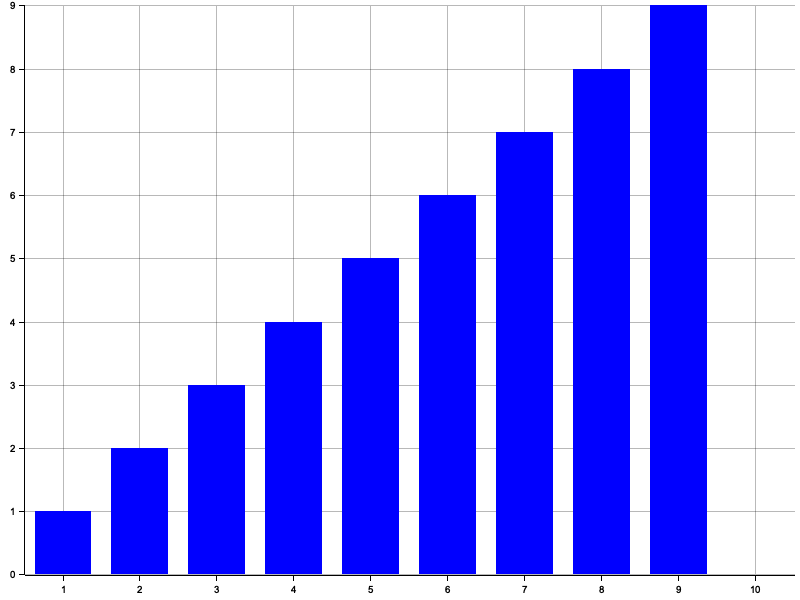
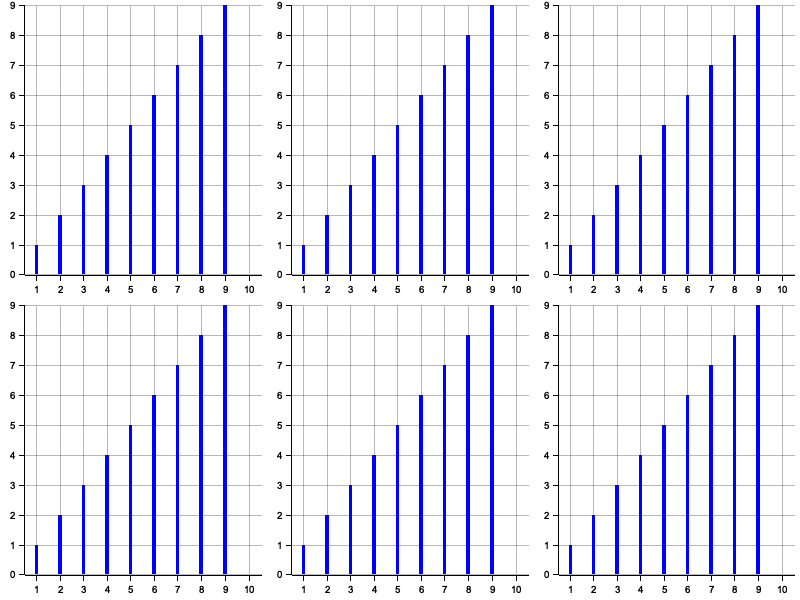
feat:histogram

diff --git a/src/spaceship_titanic/spaceship_titanic.rs b/src/spaceship_titanic/spaceship_titanic.rs
@@ -38,20 +38,23 @@ pub fn main(){
 
     println!("범주형 데이터 확인:{:?}",train_df.describe(Some(&[0f64])).unwrap());
     
+    /*===================data 불러오기========================= */
+    /*===================히스토그램 그리기========================= */
     let root = BitMapBackend::new("./src/spaceship_titanic/histogram.png", (800, 600)).into_drawing_area();
     root.fill(&WHITE).unwrap();
-    let mut chart_builder = ChartBuilder::on(&root);
+    let drawing_areas = root.split_evenly((2, 3));
+
+    for (drawing_area, idx) in drawing_areas.iter().zip(1..) {
+        let mut chart_builder = ChartBuilder::on(&drawing_area);
 
     chart_builder.margin(5).set_left_and_bottom_label_area_size(20);
-   let mut chart_context = chart_builder.build_cartesian_2d((1..10).into_segmented(), 0..9).unwrap();
-   chart_context.configure_mesh().draw().unwrap();
+    let mut chart_context = chart_builder.build_cartesian_2d((1..10).into_segmented(), 0..9).unwrap();
+    chart_context.configure_mesh().draw().unwrap();
     chart_context.draw_series(Histogram::vertical(&chart_context).style(BLUE.filled()).margin(10)
     .data((0..10).map(|x| (x, x)))).unwrap();
+    }
+    /*===================히스토그램 그리기========================= */
 
-    // 히스토그램을 그립니다.
-    // root.draw(&chart_builder)?;
-
-    /*===================data 불러오기========================= */
     /*===================processing========================= */
     
     
